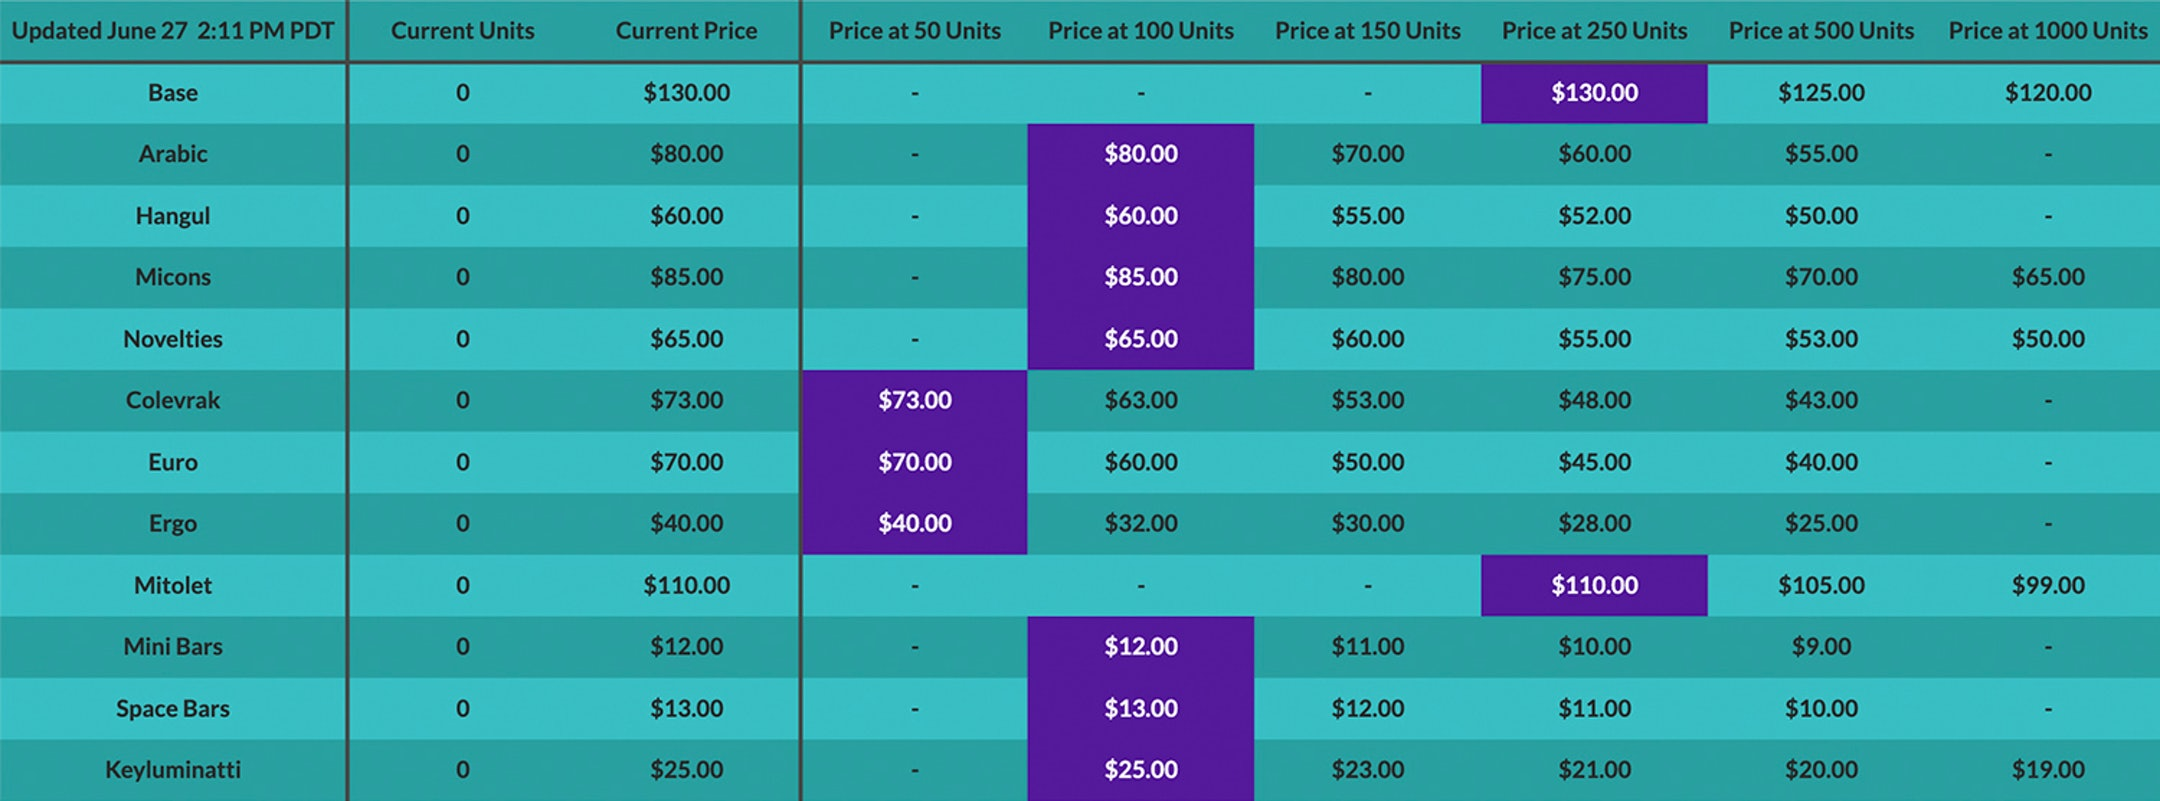
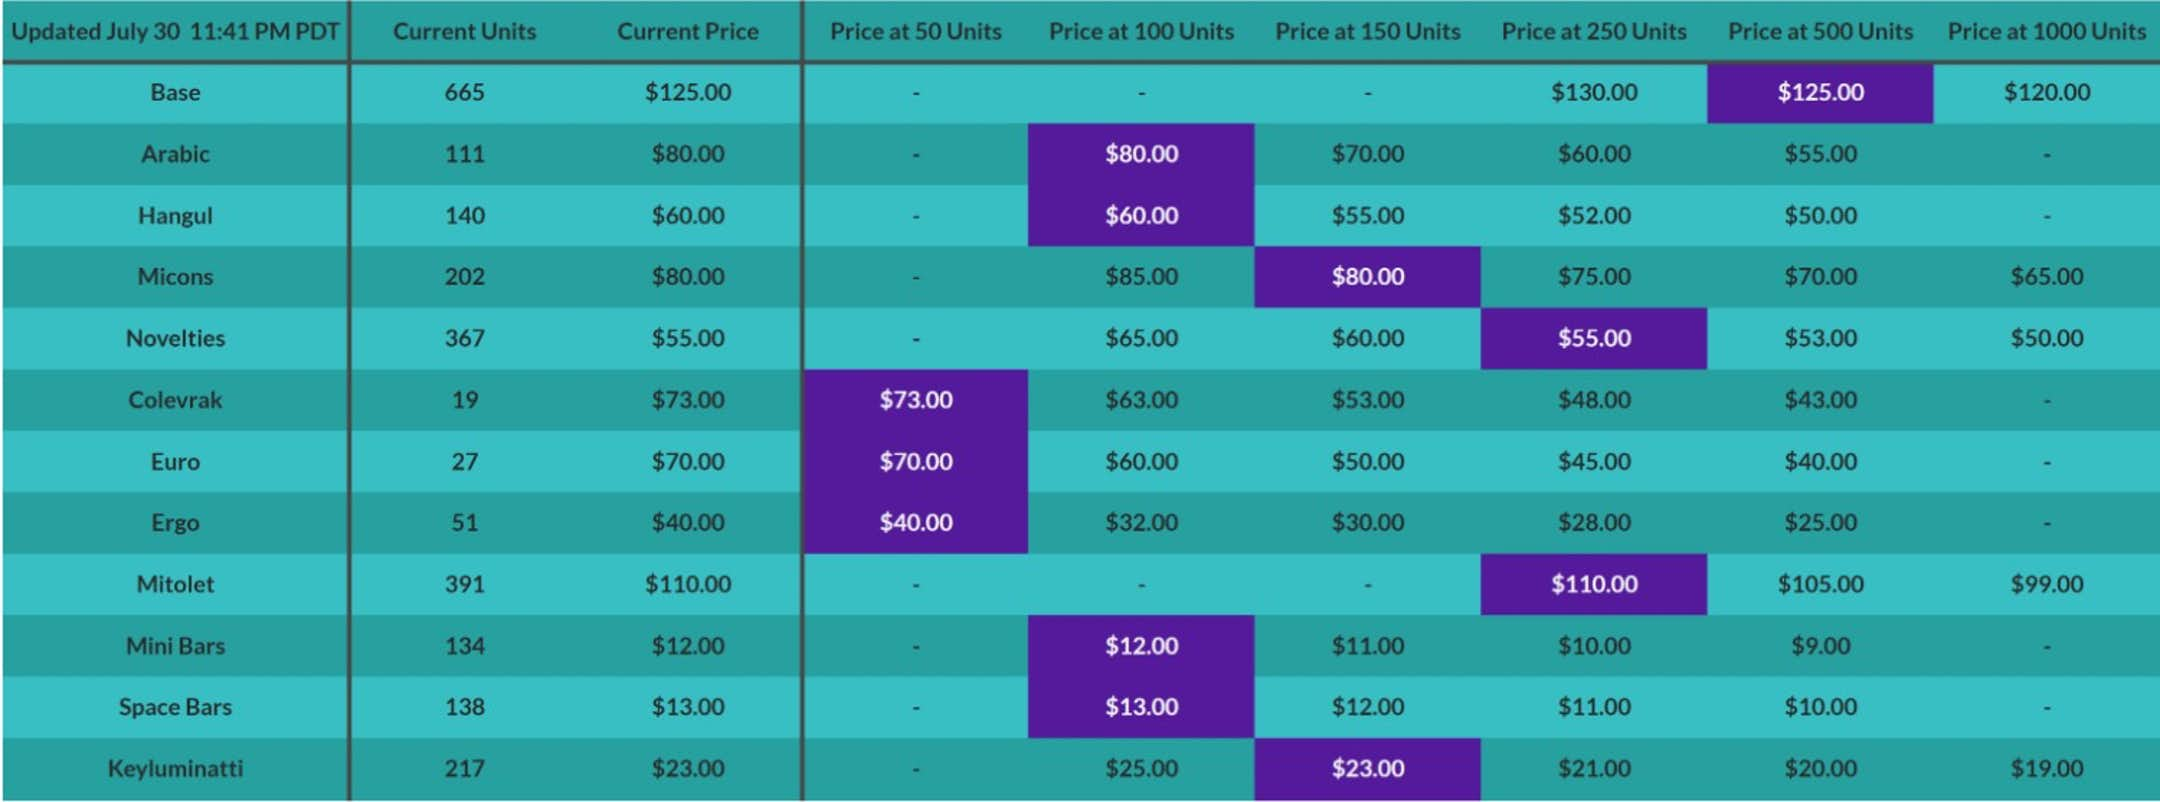
There are 3 files have been modified at 2019-08-01 14:20:59 . 	-rw-r--r-- 1 jzou ops 107577 Aug  1 14:17 assets/images/gmk-keycaps/pulse/price.jpg 	-rw-r--r-- 1 jzou ops 3685 Aug  1 14:20 docs/gmk-keycaps/Pulse.md 	-rw-r--r-- 1 jzou ops 403 Aug  1 14:20 rawdata/gmk/pulse No files have been added. No

diff --git a/docs/gmk-keycaps/Pulse.md b/docs/gmk-keycaps/Pulse.md
@@ -21,64 +21,64 @@ NOTE: USD to RMB exchange rate is 6.88
 
 | Name          | Price(MD)    |  Price(RMB) | Quantity |
 | ------------- | ------------ |  ---------- | -------- |
-|[Base](#base)|130.00|894.40|unknown|
-|[Arabic](#arabic)|80.00|550.40|unknown|
-|[Hangul](#hangul)|60.00|412.80|unknown|
-|[Micons](#micons)|85.00|584.80|unknown|
-|[Mitolet](#mitolet)|110.00|756.80|unknown|
-|[Novelties](#novelties)|65.00|447.20|unknown|
-|[Keyluminatti](#keyluminatti)|25.00|172.00|unknown|
-|[Euro](#euro)|70.00|481.60|unknown|
-|[Ergo](#ergo)|40.00|275.20|unknown|
-|[Spacebars](#spacebars)|13.00|89.44|unknown|
-|[Minibars](#minibars)|12.00|82.56|unknown|
+|[Base](#base)|125.00|860.00|665|
+|[Arabic](#arabic)|80.00|550.40|111|
+|[Hangul](#hangul)|60.00|412.80|140|
+|[Micons](#micons)|80.00|550.40|202|
+|[Mitolet](#mitolet)|110.00|756.80|391|
+|[Novelties](#novelties)|55.00|378.40|367|
+|[Keyluminatti](#keyluminatti)|23.00|158.24|217|
+|[Euro](#euro)|70.00|481.60|27|
+|[Ergo](#ergo)|40.00|275.20|51|
+|[Spacebars](#spacebars)|13.00|89.44|138|
+|[Minibars](#minibars)|12.00|82.56|134|
 
 <img src="{{ 'assets/images/gmk-keycaps/pulse/price.jpg' | relative_url }}" alt="price" class="image featured">
 
 
 ## Kits
 ### Base
-**Price(MD):** 130.00    **Price(RMB):** 894.40    **Quantity:** unknown  
+**Price(MD):** 125.00    **Price(RMB):** 860.00    **Quantity:** 665  
 <img src="{{ 'assets/images/gmk-keycaps/pulse/kits_pics/base.png' | relative_url }}" alt="Base" class="image featured">
 
 ### Arabic
-**Price(MD):** 80.00    **Price(RMB):** 550.40    **Quantity:** unknown  
+**Price(MD):** 80.00    **Price(RMB):** 550.40    **Quantity:** 111  
 <img src="{{ 'assets/images/gmk-keycaps/pulse/kits_pics/arabic.png' | relative_url }}" alt="Arabic" class="image featured">
 
 ### Hangul
-**Price(MD):** 60.00    **Price(RMB):** 412.80    **Quantity:** unknown  
+**Price(MD):** 60.00    **Price(RMB):** 412.80    **Quantity:** 140  
 <img src="{{ 'assets/images/gmk-keycaps/pulse/kits_pics/hangul.png' | relative_url }}" alt="Hangul" class="image featured">
 
 ### Micons
-**Price(MD):** 85.00    **Price(RMB):** 584.80    **Quantity:** unknown  
+**Price(MD):** 80.00    **Price(RMB):** 550.40    **Quantity:** 202  
 <img src="{{ 'assets/images/gmk-keycaps/pulse/kits_pics/micons.png' | relative_url }}" alt="Micons" class="image featured">
 
 ### Mitolet
-**Price(MD):** 110.00    **Price(RMB):** 756.80    **Quantity:** unknown  
+**Price(MD):** 110.00    **Price(RMB):** 756.80    **Quantity:** 391  
 <img src="{{ 'assets/images/gmk-keycaps/pulse/kits_pics/mitolet.png' | relative_url }}" alt="Mitolet" class="image featured">
 
 ### Novelties
-**Price(MD):** 65.00    **Price(RMB):** 447.20    **Quantity:** unknown  
+**Price(MD):** 55.00    **Price(RMB):** 378.40    **Quantity:** 367  
 <img src="{{ 'assets/images/gmk-keycaps/pulse/kits_pics/novelties.png' | relative_url }}" alt="Novelties" class="image featured">
 
 ### Keyluminatti
-**Price(MD):** 25.00    **Price(RMB):** 172.00    **Quantity:** unknown  
+**Price(MD):** 23.00    **Price(RMB):** 158.24    **Quantity:** 217  
 <img src="{{ 'assets/images/gmk-keycaps/pulse/kits_pics/keyluminatti.png' | relative_url }}" alt="Keyluminatti" class="image featured">
 
 ### Euro
-**Price(MD):** 70.00    **Price(RMB):** 481.60    **Quantity:** unknown  
+**Price(MD):** 70.00    **Price(RMB):** 481.60    **Quantity:** 27  
 <img src="{{ 'assets/images/gmk-keycaps/pulse/kits_pics/euro.png' | relative_url }}" alt="Euro" class="image featured">
 
 ### Ergo
-**Price(MD):** 40.00    **Price(RMB):** 275.20    **Quantity:** unknown  
+**Price(MD):** 40.00    **Price(RMB):** 275.20    **Quantity:** 51  
 <img src="{{ 'assets/images/gmk-keycaps/pulse/kits_pics/ergo.png' | relative_url }}" alt="Ergo" class="image featured">
 
 ### Spacebars
-**Price(MD):** 13.00    **Price(RMB):** 89.44    **Quantity:** unknown  
+**Price(MD):** 13.00    **Price(RMB):** 89.44    **Quantity:** 138  
 <img src="{{ 'assets/images/gmk-keycaps/pulse/kits_pics/spacebars.png' | relative_url }}" alt="Spacebars" class="image featured">
 
 ### Minibars
-**Price(MD):** 12.00    **Price(RMB):** 82.56    **Quantity:** unknown  
+**Price(MD):** 12.00    **Price(RMB):** 82.56    **Quantity:** 134  
 <img src="{{ 'assets/images/gmk-keycaps/pulse/kits_pics/minibars.png' | relative_url }}" alt="Minibars" class="image featured">
 
 
@@ -92,3 +92,4 @@ NOTE: USD to RMB exchange rate is 6.88
 ## Pictures
 <img src="{{ 'assets/images/gmk-keycaps/pulse/rendering_pics/1.png' | relative_url }}" alt="1.png" class="image featured">
 <img src="{{ 'assets/images/gmk-keycaps/pulse/rendering_pics/2.png' | relative_url }}" alt="2.png" class="image featured">
+* [Pulse 脉冲](docs/gmk-keycaps/Pulse/)
